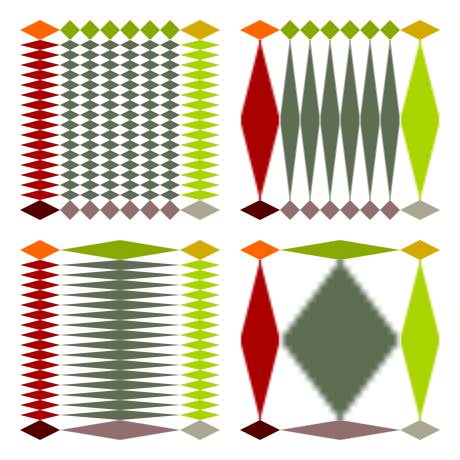
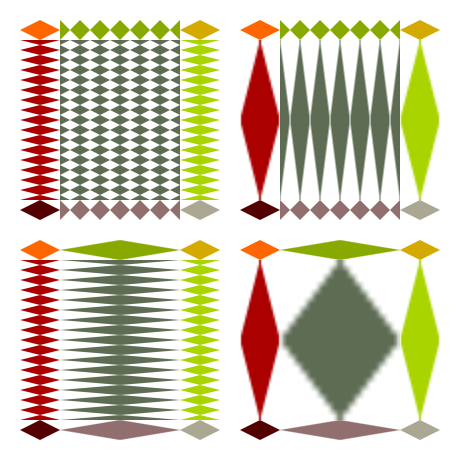
Bug 1778032 - Fix the position of border-image repeat tiles. r=gfx-reviewers,gw
Differential Revision: https://phabricator.services.mozilla.com/D180323

[ghsync] From https://hg.mozilla.org/mozilla-central/rev/8c932e681e021cc4d2f8c9f72e20ce5941eb689e

diff --git a/src/webrender/src/gpu_types.rs b/src/webrender/src/gpu_types.rs
@@ -618,13 +618,19 @@ bitflags! {
         const SEGMENT_REPEAT_X_ROUND = 16;
         /// Vertically follow border-image-repeat: round.
         const SEGMENT_REPEAT_Y_ROUND = 32;
+        /// Whether to position the repetitions so that the middle tile
+        /// is horizontally centered.
+        const SEGMENT_REPEAT_X_CENTERED = 64;
+        /// Whether to position the repetitions so that the middle tile
+        /// is vertically centered.
+        const SEGMENT_REPEAT_Y_CENTERED = 128;
         /// Middle (fill) area of a border-image-repeat.
-        const SEGMENT_NINEPATCH_MIDDLE = 64;
+        const SEGMENT_NINEPATCH_MIDDLE = 256;
         /// The extra segment data is a texel rect.
-        const SEGMENT_TEXEL_RECT = 128;
+        const SEGMENT_TEXEL_RECT = 512;
         /// Whether to force the anti-aliasing when the primitive
         /// is axis-aligned.
-        const FORCE_AA = 256;
+        const FORCE_AA = 1024;
     }
 }
 

diff --git a/src/webrender/src/border.rs b/src/webrender/src/border.rs
@@ -1351,13 +1351,13 @@ impl NinePatchDescriptor {
 
             // Enable repeat modes on the segment.
             if repeat_horizontal == RepeatMode::Repeat {
-                brush_flags |= BrushFlags::SEGMENT_REPEAT_X;
+                brush_flags |= BrushFlags::SEGMENT_REPEAT_X | BrushFlags::SEGMENT_REPEAT_X_CENTERED;
             } else if repeat_horizontal == RepeatMode::Round {
                 brush_flags |= BrushFlags::SEGMENT_REPEAT_X | BrushFlags::SEGMENT_REPEAT_X_ROUND;
             }
 
             if repeat_vertical == RepeatMode::Repeat {
-                brush_flags |= BrushFlags::SEGMENT_REPEAT_Y;
+                brush_flags |= BrushFlags::SEGMENT_REPEAT_Y | BrushFlags::SEGMENT_REPEAT_Y_CENTERED;
             } else if repeat_vertical == RepeatMode::Round {
                 brush_flags |= BrushFlags::SEGMENT_REPEAT_Y | BrushFlags::SEGMENT_REPEAT_Y_ROUND;
             }
